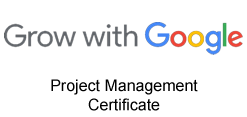
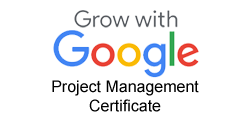
working certificate slider

Changed region(s): [[0.0, 0.0769, 0.9919, 0.6667], [0.1984, 0.6667, 0.8219, 0.8205], [0.3401, 0.8205, 0.6518, 0.9744]]

diff --git a/about.html b/about.html
@@ -75,6 +75,53 @@
     <script src="js/respond.min.js"></script>
     <![endif]-->
 
+    <style>
+        .owl-carousel {
+            margin: 0 auto;
+            max-width: 1200px;
+            overflow: hidden;
+        }
+
+        .owl-carousel img {
+            width: auto;
+            max-height: 200px;
+            margin: 0 5px;
+            object-fit: cover;
+        }
+
+        .owl-carousel .owl-stage {
+            display: flex;
+            align-items: center;
+        }
+
+        .owl-carousel .owl-stage-outer {
+            overflow: hidden;
+        }
+
+        .owl-carousel .owl-nav button.owl-prev,
+        .owl-carousel .owl-nav button.owl-next {
+            position: absolute;
+            top: 50%;
+            transform: translateY(-50%);
+            font-size: 0;
+            border: none;
+            background: none;
+            outline: none;
+            cursor: pointer;
+        }
+
+        .owl-carousel .owl-nav button.owl-prev {
+            left: 0;
+        }
+
+        .owl-carousel .owl-nav button.owl-next {
+            right: 0;
+        }
+
+    </style>
+
+
+
 
 </head>
 
@@ -189,15 +236,23 @@
 
                                 <div class="gtitle-container">
                                     <span class="gtitle">
-                                         Professional Certifications
+                                        Certificates
                                     </span>
                                 </div>
 
-                                <hr style="background-color: #a2a2a2; height: 1px; width: 95%">
 
-                                <div>
-                                    <img src="certificates/photo/Harvard_cs50.png" class="cert_img">
+                                <hr style="background-color: #a2a2a2; height: 1px; width: 95%">
+                                <div class="owl-carousel animate-box cert_container">
+                                    <!-- Professional Certs -->
                                     <img src="certificates/photo/TransportCanada_rpas.png" class="cert_img">
+                                    <img src="certificates/photo/Google_pm.png" class="cert_img">
+
+                                    <!-- Other Certs -->
+                                    <img src="certificates/photo/Harvard_cs50.png" class="cert_img">
+                                    <img src="certificates/photo/UTA_embedded.png" class="cert_img">
+                                    <img src="certificates/photo/FreeCodeCamp_js.png" class="cert_img">
+                                    <img src="certificates/photo/FreeCodeCamp_web.png" class="cert_img">
+
                                 </div>
 
 
@@ -246,7 +301,7 @@
                         </div>
                         <div class="career-stats-element">
                             <span class="career-stats-number">8+</span>
-                            <span class="career-stats-desc">other<br>certificates</span>
+                            <span class="career-stats-desc">skill<br>certificates</span>
                         </div>
                     </div>
 
@@ -423,17 +478,8 @@
                 </div>
                 <!-- END TIMELINE CONTAINER -->
 
-                <!-- TIMELINE SELECTOR
-                <div class="glenn-social-box animate-box" data-animate-effect="fadeInBottom">
-                    <span id="education-timeline" class="timeline-selector"><img class="spin" alt="cap" src="images/icons/education.png">Education</span>
-                    <span id="work-timeline" class="timeline-selector timeline-active"><img class="spin" alt="cap" src="images/icons/work.png">Work</span>
-                    <span style="display: block; font-size: small">(select a timeline to display)</span>
-                </div>
-                 END TIMELINE SELECTOR -->
 
                 <!-- MINI CARD -->
-
-
                 <div class="glenn-flex-wrap">
                     <div class="col-md-8 col-md-offset-2 animate-box" data-animate-effect="fadeInBottom">
                         <div class="glenn-card animate-box" data-animate-effect="fadeInBottom">
@@ -451,8 +497,6 @@
                     </div>
                 </div>
                 <!-- END MINI CARD -->
-
-
 
 
                 <!-- Website Credits -->
@@ -478,70 +522,6 @@
                     <a href="https://youtube.com/glennlopez" target="_blank"><img alt="youtube" class="glenn-social-icon" src="images/icons/youtube.png"></a>
                 </div>
                 <!-- END SOCIAL CARDS -->
-
-                <!-- RANDOM QUOTE FOOTER
-                <div class="blockquote glenn-card animate-box" data-animate-effect="fadeInRight">
-                    <svg viewBox="0 0 512 512" width="40" class="quote-icon" style="fill: #a7a7a7">
-                        <path d="M464 256h-80v-64c0-35.3 28.7-64 64-64h8c13.3 0 24-10.7 24-24V56c0-13.3-10.7-24-24-24h-8c-88.4 0-160 71.6-160 160v240c0 26.5 21.5 48 48 48h128c26.5 0 48-21.5 48-48V304c0-26.5-21.5-48-48-48zm-288 0H96v-64c0-35.3 28.7-64 64-64h8c13.3 0 24-10.7 24-24V56c0-13.3-10.7-24-24-24h-8C71.6 32 0 103.6 0 192v240c0 26.5 21.5 48 48 48h128c26.5 0 48-21.5 48-48V304c0-26.5-21.5-48-48-48z" />
-                    </svg>
-
-                    <div class="quote-item">
-                        <p class="quote">For the best return on your money, pour your purse into your head.</p>
-                        <p class="author">— Benjamin Franklin</p>
-                    </div>
-
-                    <div class="quote-item">
-                        <p class="quote">Programming is like sex, one mistake and you have to support it for the rest of your life.</p>
-                        <p class="author">— Michael Sinz</p>
-                    </div>
-
-                    <div class="quote-item">
-                        <p class="quote">The one who falls and gets up is stronger than the one who never tried. Do not fear failure but rather fear not trying.</p>
-                        <p class="author">— Roy T. Bennett</p>
-                    </div>
-
-                    <div class="quote-item">
-                        <p class="quote">Code is like humor. Its bad when you have to explain it.</p>
-                        <p class="author">— Unknown</p>
-                    </div>
-
-                    <div class="quote-item">
-                        <p class="quote">I see life almost like one long University education that I never had -- everyday I’m learning something new.</p>
-                        <p class="author">— Richard Branson</p>
-                    </div>
-
-                    <div class="quote-item">
-                        <p class="quote">One of the huge mistakes people make is that they try to force an interest on themselves. You don't choose your passions; your passions choose you.</p>
-                        <p class="author">— Jeff Bezos</p>
-                    </div>
-
-                    <div class="quote-item">
-                        <p class="quote">Success is walking from failure to failure with no loss of enthusiasm.</p>
-                        <p class="author">— Winston Churchill</p>
-                    </div>
-
-                    <div class="quote-item">
-                        <p class="quote">There are two ways to write error-free programs; only the third one works.</p>
-                        <p class="author">—Alan J. Perlis</p>
-                    </div>
-
-                    <div class="quote-item">
-                        <p class="quote">Anyone who stops learning is old, whether at twenty or eighty. Anyone who keeps learning stays young.</p>
-                        <p class="author">— Henry Ford</p>
-                    </div>
-
-                    <div class="quote-item">
-                        <p class="quote">Java is to JavaScript as ham is to hamster.</p>
-                        <p class="author">— Jeremy Keith</p>
-                    </div>
-
-                    <div class="quote-item">
-                        <p class="quote">The important thing is not to stop questioning. Curiosity has its own reason for existence.</p>
-                        <p class="author">— Albert Einstein</p>
-                    </div>
-
-                </div>
-                 END RANDOM QUOTE FOOTER  -->
 
             </div>
         </div>
@@ -816,6 +796,33 @@
     observer1.observe(elementToObserve1);
 </script>
 <!-- END Class Toggle for Nav selection element -->
+
+<!-- Certificate Carousel -->
+<script>
+    $(document).ready(function() {
+        $(".owl-carousel").owlCarousel({
+            items: 5,
+            loop: true,
+            margin: 10,
+            autoplay: true,
+            autoplayTimeout: 2700,
+            autoplayHoverPause: true,
+            dots: false, // set dots to false to remove dots
+            responsive: {
+                0: {
+                    items: 4
+                },
+                768: {
+                    items: 4
+                },
+                992: {
+                    items: 5
+                }
+            }
+        });
+    });
+</script>
+<!-- endCertificate Carousel -->
 
 
 </body>

diff --git a/css/style.css b/css/style.css
@@ -2701,12 +2701,20 @@ p.cursor::after {
 /*======================
     Certificate
 =======================*/
+.cert_container {
+    display: flex;
+    justify-content: center;
+    align-items: center;
+}
 
 .cert_img {
     margin: 2px;
-    width: 15%;
+    width: 30%;
     height: auto;
-    opacity: 80%;
+    opacity: 85%;
+    filter: grayscale(0%);
+}
 
-
+.cert_img:hover {
+    filter: grayscale(0%);
 }
